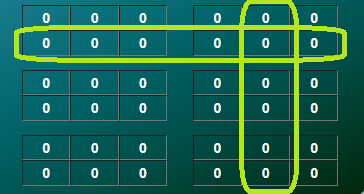
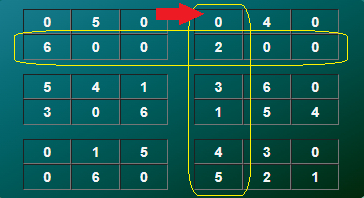
Update README

diff --git a/README.md b/README.md
@@ -19,9 +19,20 @@ This project is showing how to resolve Sudoku game. In this game we have to fill
 The classic Sudoku has gameboard 9x9. My project contains board which size is 6x6. You have to fill digit in empty field but this field must meet two conditions in below:
 
 1. Digit can't be in "minimatrix", which contains this empty field. ( minimatrix has yellow border):
-   ![a screenshot presenting the front page of the project website](./images/matrix.png)
+   ![a screenshot presenting the six minimatrix in board](./images/matrix.png)
 2. Digit can't be in single row or column, which contains this empty field.
-   ![a screenshot presenting the front page of the project website](./images/matrix-row-column.PNG)
+   ![a screenshot presenting the board with one column and row marked](./images/matrix-row-column.PNG)
+
+   For this example you have to fill digit "6" in field, which is shown by arrow. Any other digit isn't right in this field.
+
+My project has three levels of difficulty. If you don't know what number fill the next one, you can use the one of five hint ( steps ).
+You can expand the description, when you clicked in "description" button.
+
+![a screenshot presenting the description of step1](./images/step-1-description.PNG)
+
+On the right is the screen will present, what dighit was filled on the board.
+You can start game, when you clicked one of three buttons: EASY, MEDIUM, HARD.
+The button "finish game" can solve sudoku immediately and display every step on the screen on the right.
 
 ## Technologies
 
